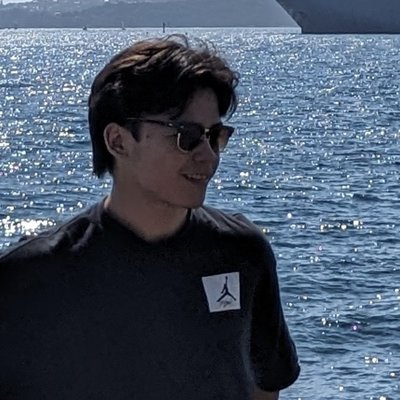
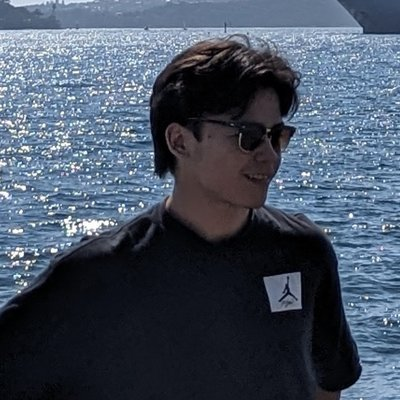
Shift profile photo crop so subject sits further right

diff --git a/reviews.html b/reviews.html
@@ -5,7 +5,7 @@
   <meta name="viewport" content="width=device-width, initial-scale=1">
   <title>Reviews · Keiran Moores</title>
   <meta name="description" content="Leave a review for Keiran Moores' IT, AI adoption and security services.">
-  <link rel="stylesheet" href="assets/style.css?v=13">
+  <link rel="stylesheet" href="assets/style.css?v=14">
 </head>
 <body>
   <div class="page">
@@ -76,7 +76,7 @@
       </div>
     </main>
   </div>
-  <script src="assets/layout.js?v=13"></script>
+  <script src="assets/layout.js?v=14"></script>
   <script>
     (function () {
       const form = document.getElementById("review-form");

diff --git a/gallery.html b/gallery.html
@@ -4,7 +4,7 @@
   <meta charset="utf-8">
   <meta name="viewport" content="width=device-width, initial-scale=1">
   <title>Gallery · Keiran Moores</title>
-  <link rel="stylesheet" href="assets/style.css?v=13">
+  <link rel="stylesheet" href="assets/style.css?v=14">
 </head>
 <body>
   <div class="page">
@@ -72,7 +72,7 @@
     <button class="lb-next" type="button" aria-label="Next photo">›</button>
   </div>
 
-  <script src="assets/layout.js?v=13"></script>
+  <script src="assets/layout.js?v=14"></script>
   <script>
     (function () {
       const links = [...document.querySelectorAll("#gallery [data-full]")];

diff --git a/index.html b/index.html
@@ -5,7 +5,7 @@
   <meta name="viewport" content="width=device-width, initial-scale=1">
   <title>Keiran Moores</title>
   <meta name="description" content="Personal homepage of Keiran Moores.">
-  <link rel="stylesheet" href="assets/style.css?v=13">
+  <link rel="stylesheet" href="assets/style.css?v=14">
 </head>
 <body>
   <div class="page">
@@ -48,6 +48,6 @@
       <p>The opinions on this website are my own and do not reflect those of my employer.</p>
     </main>
   </div>
-  <script src="assets/layout.js?v=13"></script>
+  <script src="assets/layout.js?v=14"></script>
 </body>
 </html>

diff --git a/cv.html b/cv.html
@@ -4,7 +4,7 @@
   <meta charset="utf-8">
   <meta name="viewport" content="width=device-width, initial-scale=1">
   <title>CV · Keiran Moores</title>
-  <link rel="stylesheet" href="assets/style.css?v=13">
+  <link rel="stylesheet" href="assets/style.css?v=14">
 </head>
 <body>
   <div class="page">
@@ -27,6 +27,6 @@
       <p>Python, Powershell, Digital Innovation and Adoption, ML & Data Algorithms, Data Application and Security</p>
     </main>
   </div>
-  <script src="assets/layout.js?v=13"></script>
+  <script src="assets/layout.js?v=14"></script>
 </body>
 </html>

diff --git a/blog.html b/blog.html
@@ -4,7 +4,7 @@
   <meta charset="utf-8">
   <meta name="viewport" content="width=device-width, initial-scale=1">
   <title>Blog · Keiran Moores</title>
-  <link rel="stylesheet" href="assets/style.css?v=13">
+  <link rel="stylesheet" href="assets/style.css?v=14">
 </head>
 <body>
   <div class="page">
@@ -24,6 +24,6 @@
       <div class="callout">The first posts are on their way. Check back soon!</div>
     </main>
   </div>
-  <script src="assets/layout.js?v=13"></script>
+  <script src="assets/layout.js?v=14"></script>
 </body>
 </html>

diff --git a/products.html b/products.html
@@ -4,7 +4,7 @@
   <meta charset="utf-8">
   <meta name="viewport" content="width=device-width, initial-scale=1">
   <title>Products · Keiran Moores</title>
-  <link rel="stylesheet" href="assets/style.css?v=13">
+  <link rel="stylesheet" href="assets/style.css?v=14">
 </head>
 <body>
   <div class="page">
@@ -38,6 +38,6 @@
       </div>
     </main>
   </div>
-  <script src="assets/layout.js?v=13"></script>
+  <script src="assets/layout.js?v=14"></script>
 </body>
 </html>

diff --git a/service.html b/service.html
@@ -4,7 +4,7 @@
   <meta charset="utf-8">
   <meta name="viewport" content="width=device-width, initial-scale=1">
   <title>Services · Keiran Moores</title>
-  <link rel="stylesheet" href="assets/style.css?v=13">
+  <link rel="stylesheet" href="assets/style.css?v=14">
 </head>
 <body>
   <div class="page">
@@ -41,6 +41,6 @@
       </ul>
     </main>
   </div>
-  <script src="assets/layout.js?v=13"></script>
+  <script src="assets/layout.js?v=14"></script>
 </body>
 </html>

diff --git a/assets/layout.js b/assets/layout.js
@@ -60,7 +60,7 @@
     </div></header>`;
 
   const sidebar = `
-    <img class="avatar" src="assets/profile.jpg?v=3" alt="Photo of ${PROFILE.name}" width="160" height="160">
+    <img class="avatar" src="assets/profile.jpg?v=4" alt="Photo of ${PROFILE.name}" width="160" height="160">
     <div>
       <h2 class="author-name">${PROFILE.name}</h2>
       <p class="author-title">${PROFILE.title}</p>
